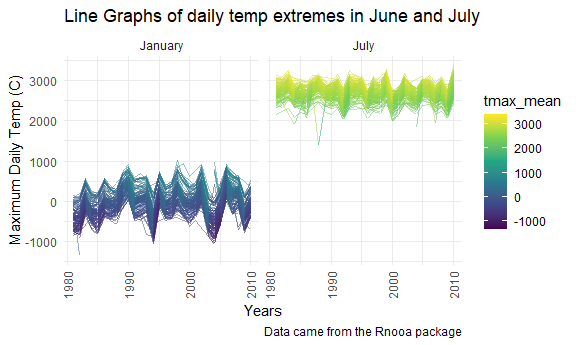
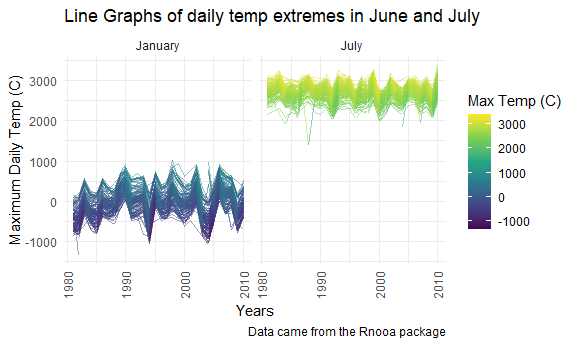
flipped plots, added breaks, added labels

diff --git a/fall22_p8105_hw3_JSM2182.md b/fall22_p8105_hw3_JSM2182.md
@@ -140,7 +140,7 @@ accel_df %>%
 |    4 | 260617 | 409450.00 | 319568.0 |    434460 | 340291.0 | 154049.0 |     1440 |
 |    5 | 138421 | 389080.00 | 367824.0 |    445366 | 549658.0 | 620860.0 |     1440 |
 
-There are a few observable trend. As the weeks advanced, the patients
+There are a few observable trends. As the weeks advanced, the patients
 activity level tended to remain stable on Mondays - Thursdays. From a
 given Friday to the next Friday (with one exception), activity levels
 overall seemed to increase. From a given Saturday to the following
@@ -163,7 +163,8 @@ accel_df %>%
     y = "Activity Counts",
     title = "CHF Patient Activity Level Over the Course of a Day") + 
   scale_x_continuous(
-    breaks = c(0, 200, 400, 600, 800, 1000, 1200, 1400), 
+    breaks = c(0, 180, 360, 540, 720, 900, 1080, 1260, 1440), 
+    labels = c("12AM", "3AM", "6AM", "9AM", "12PM", "3PM", "6PM","9PM", "12AM +D"),
     limits = c(0, 1440) 
     )
 ```
@@ -172,9 +173,9 @@ accel_df %>%
 
 The patient’s activity level/score did not exceed 2500 per minute across
 most days. The patient was more active after 6AM overall, and tended to
-break the 2500 threshold particularly around 700 minutes, 10000 minutes,
-and 12000 minutes. These were more likely to occur on Sundays,
-Saturdays, Wednesdays, and Fridays.
+break the 2500 threshold particularly around or before 12PM, or around
+4PM or around 9PM.These were more likely to occur on Sundays, Saturdays,
+Wednesdays, and Fridays.
 
 ## Problem 3
 
@@ -283,8 +284,8 @@ ny_noaa_tidy %>%
     y = "Maximum Daily Temp (C)",
     title = "Line Graphs of daily temp extremes in June and July",
     caption = "Data came from the Rnooa package",
-    linetype = "Max Temp (C)") + 
-
+    color = "Max Temp (C)"
+    ) +
   theme(axis.text.x = element_text(angle = 90, vjust = 0.5, hjust = 1)) + 
   theme(legend.position = "right") + 
   facet_grid(. ~ month) 
@@ -297,73 +298,17 @@ ny_noaa_tidy %>%
 
 <img src="fall22_p8105_hw3_JSM2182_files/figure-gfm/unnamed-chunk-10-1.png" width="90%" />
 
+*Trends observed* In general, m
+
 Make a two-panel plot showing (i) tmax vs tmin for the full dataset
 (note that a scatterplot may not be the best option); *office hours*
 what is group = doing how do i differentiate the different Ids
 
-``` r
-tmax_noaa_plot = 
-  ny_noaa_tidy %>%
-  group_by(year) %>% 
-  ggplot(aes(x = year, y = tmax, group = year)) +
-  geom_smooth(alpha = 0.5, na.rm = TRUE) + 
-  scale_y_continuous(
-    limits = c(100, 1500)
-  ) 
-
-
-
-tmin_noaa_plot =
-  ny_noaa_tidy %>%
-  group_by(year) %>% 
-  ggplot(aes(x = year, y = tmin, group = year)) +
-  geom_smooth(alpha = 0.5, na.rm = TRUE) +
-  scale_y_continuous(
-  limits = c(100, 1500)) 
-
-
-tmax_noaa_plot + tmin_noaa_plot
-```
-
-    ## `geom_smooth()` using method = 'gam' and formula 'y ~ s(x, bs = "cs")'
-    ## `geom_smooth()` using method = 'gam' and formula 'y ~ s(x, bs = "cs")'
-
-<img src="fall22_p8105_hw3_JSM2182_files/figure-gfm/unnamed-chunk-11-1.png" width="90%" />
-
 and (ii) make a plot showing the distribution of snowfall values greater
-than 0 and less than 100 separately by year ggplot(aes(x = year, y =
-snow)) + geom_point(alpha = 0.5)
+than 0 and less than 100 separately by year
 
 ``` r
-ny_noaa_tidy %>% 
-  group_by(year) %>% 
-  mutate(
-    snow = snow/10
-  ) %>% 
-  filter(
-    between(
-      snow,0,100),
-    !snow %in% c(0,100)
-    ) %>% 
-  ggplot(aes(x = year, y = snow)) +
-  geom_point(alpha = 0.5)
-```
-
-<img src="fall22_p8105_hw3_JSM2182_files/figure-gfm/unnamed-chunk-12-1.png" width="90%" />
-
-``` r
-ny_noaa_tidy %>% 
-  group_by(year) %>% 
-  mutate(
-    snow = snow/10
-  ) %>% 
-  filter(
-    between(
-      snow,0,100),
-    !(snow %in% c(0,100))
-    ) %>% 
-  ggplot(aes(x = year, y = snow, group = year)) +
-  geom_boxplot(alpha = 0.5)
+snow_plot / temp_noaa_plot 
 ```
 
 <img src="fall22_p8105_hw3_JSM2182_files/figure-gfm/unnamed-chunk-13-1.png" width="90%" />
